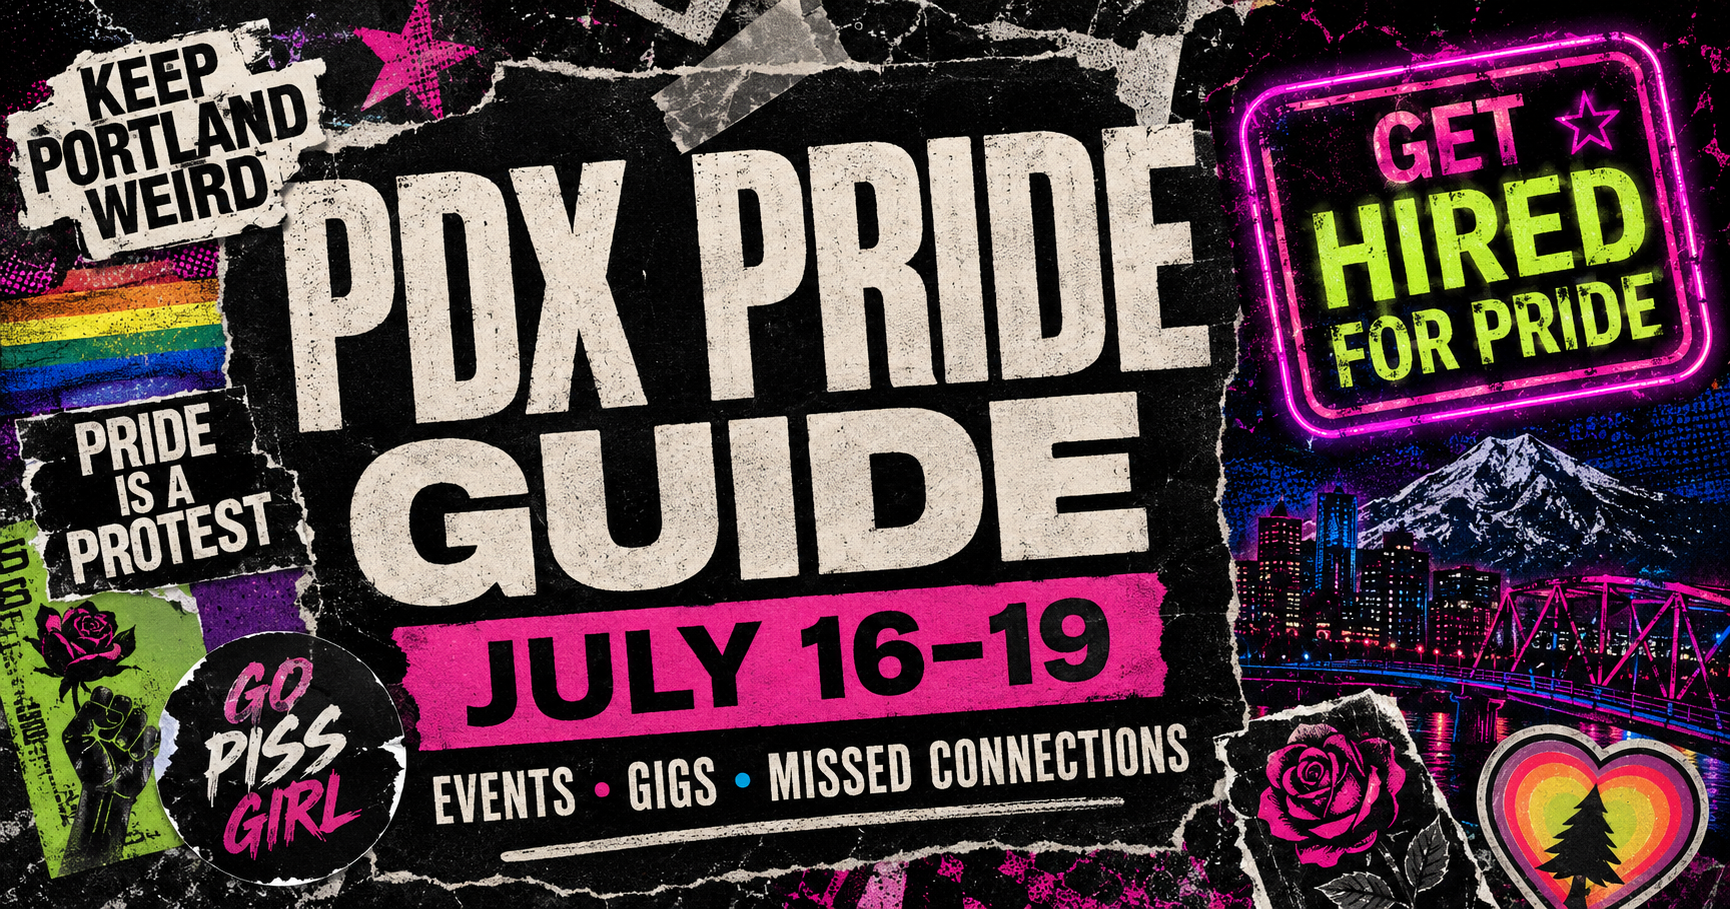
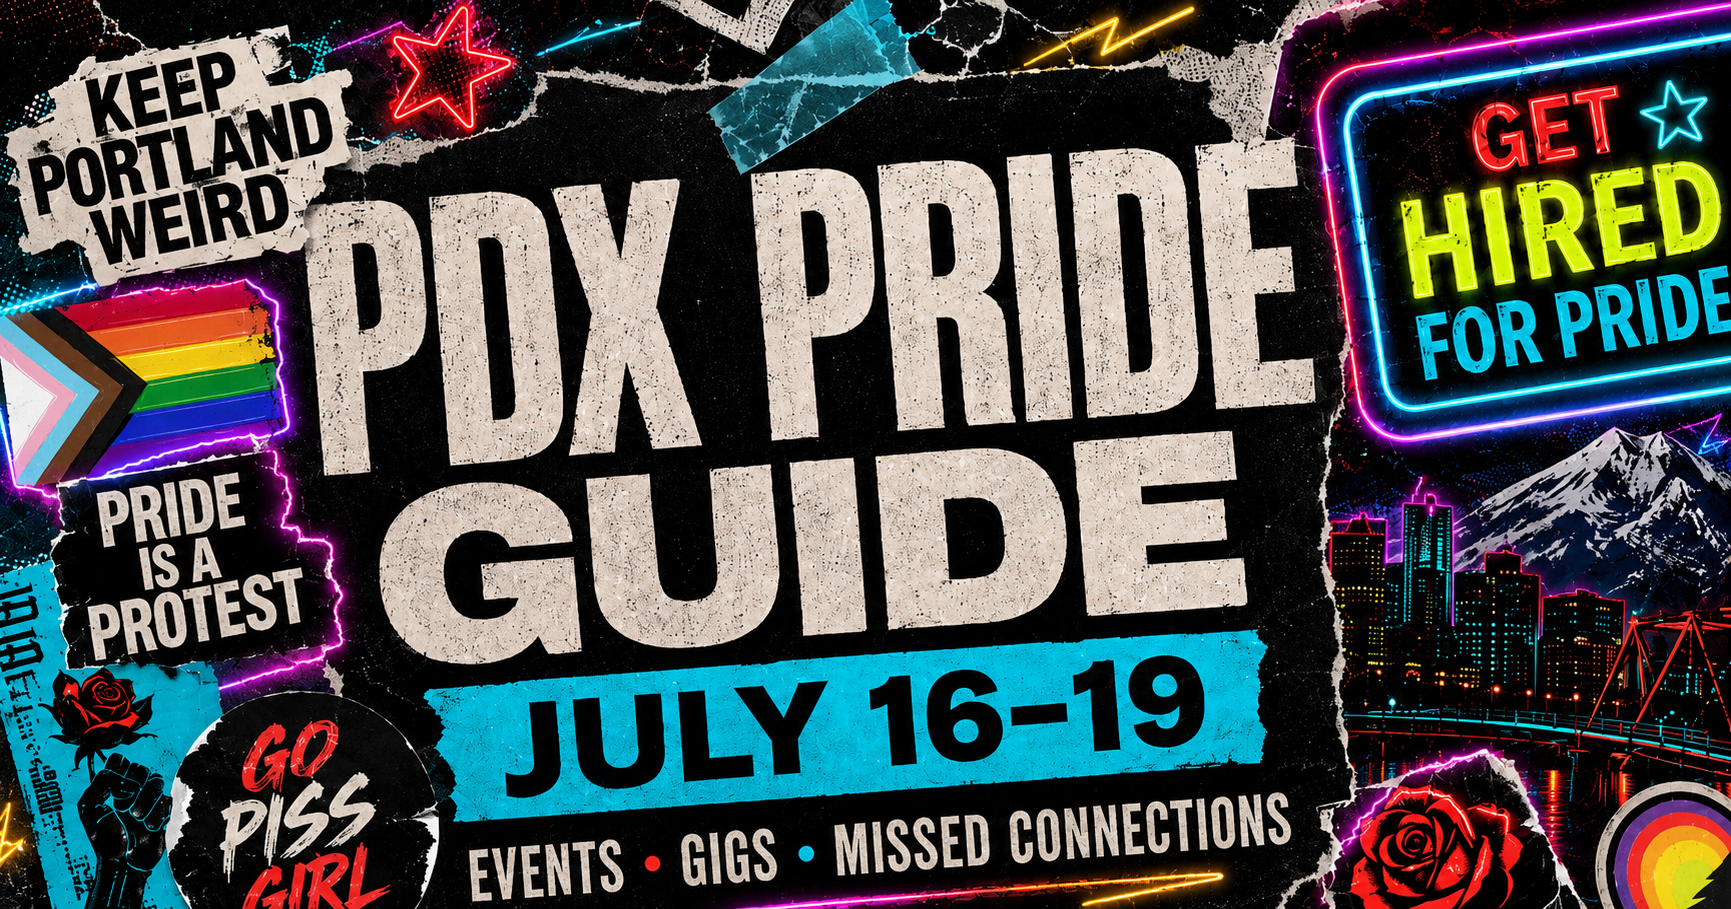
fix: replace open graph preview image

diff --git a/client/index.html b/client/index.html
@@ -12,7 +12,7 @@
     <meta property="og:image" content="https://www.prideguidepdx.com/og-preview.png" />
     <meta property="og:image:secure_url" content="https://www.prideguidepdx.com/og-preview.png" />
     <meta property="og:image:type" content="image/png" />
-    <meta property="og:image:width" content="1730" />
+    <meta property="og:image:width" content="1731" />
     <meta property="og:image:height" content="909" />
     <meta property="og:image:alt" content="PDX Pride Guide July 16-19 social preview graphic" />
     <meta name="twitter:card" content="summary_large_image" />